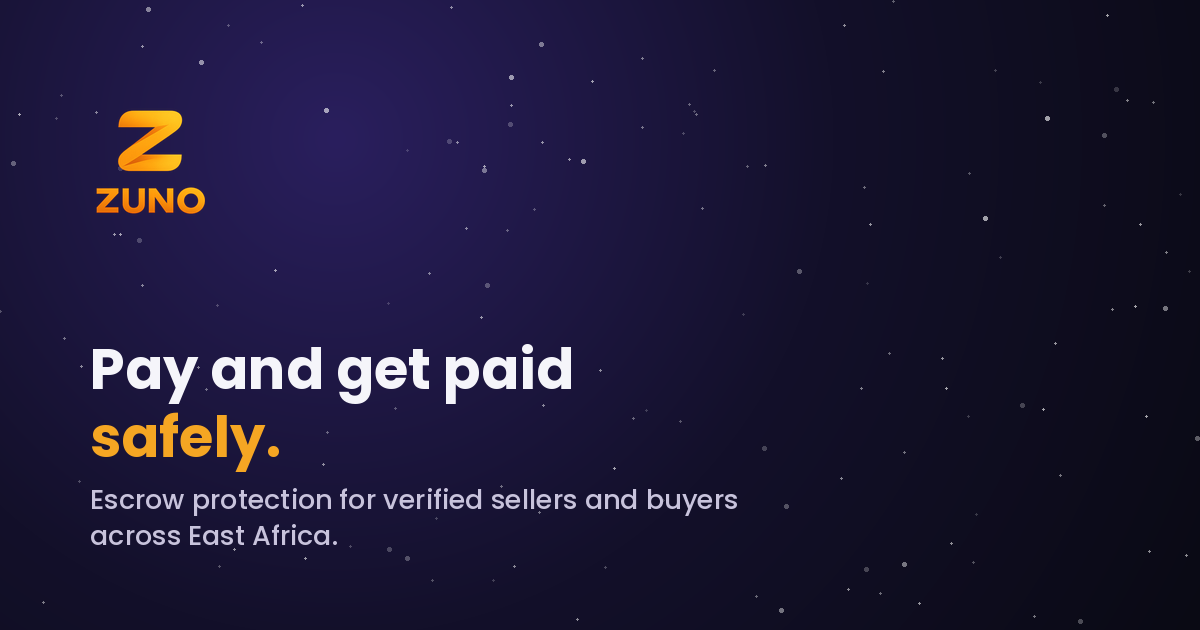
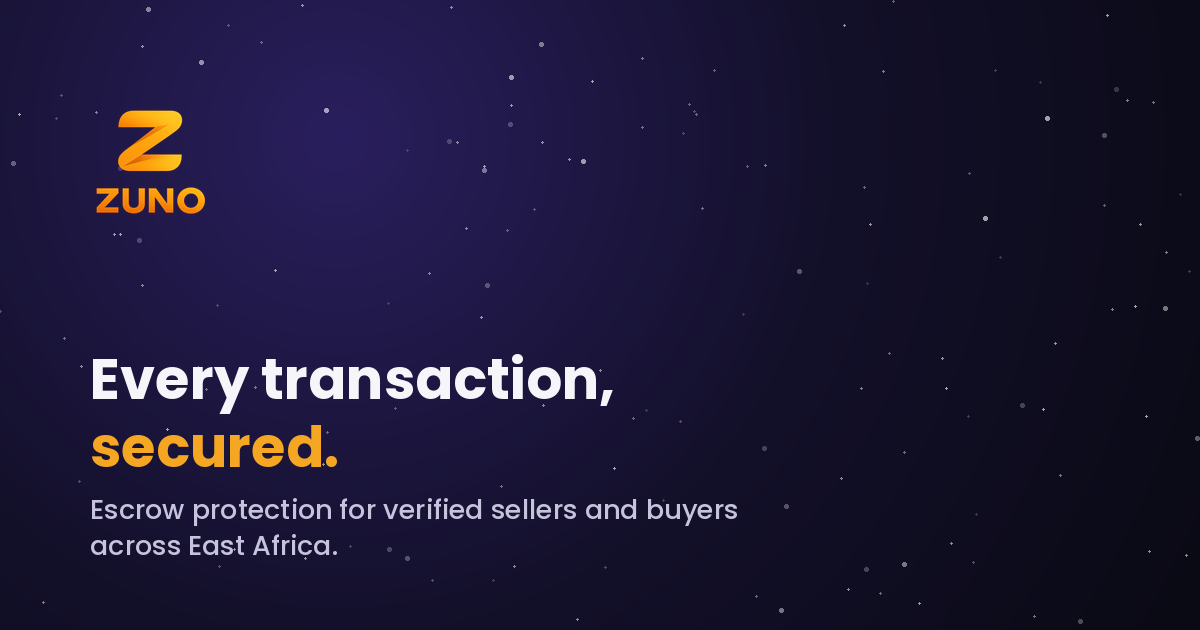
fix: replace confusing headline copy with 'Every transaction, secured.'

Changed region(s): [[0.0617, 0.5429, 0.5242, 0.754], [0.0617, 0.7841, 0.6167, 0.9048]]

diff --git a/src/routes/index.tsx b/src/routes/index.tsx
@@ -39,7 +39,7 @@ function Welcome() {
 
 
           <h1 className="mt-10 text-3xl font-bold leading-tight">
-            Pay and get paid <span className="text-gold">safely.</span>
+            Every transaction, <span className="text-gold">secured.</span>
           </h1>
           <p className="mt-3 text-sm leading-relaxed text-muted-foreground">
             Escrow protection that gives you peace of mind on every deal. Verified sellers, protected buyers.